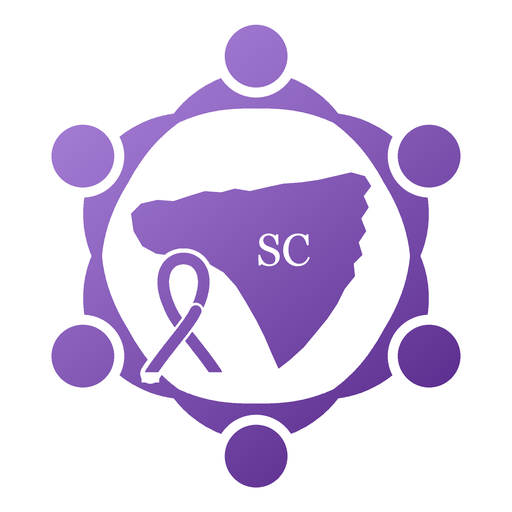
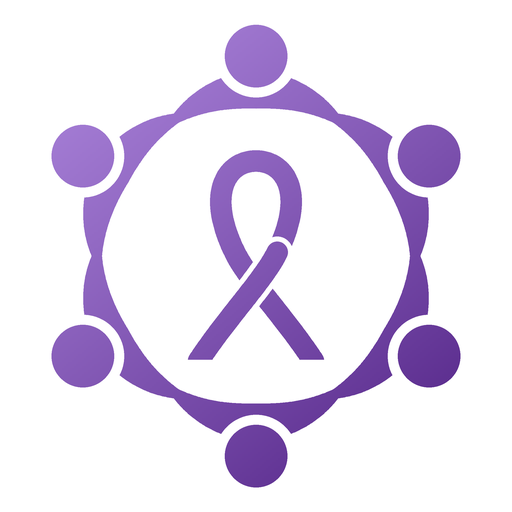
feat(fisio): ícone Uniafibro só com pessoas e laço (sem mapa/SC) [CC]

Changed region(s): [[0.25, 0.2812, 0.7188, 0.75]]

diff --git a/fisio-twa/scripts/icone-uniafibro.py b/fisio-twa/scripts/icone-uniafibro.py
@@ -1,5 +1,5 @@
 """Ícone do app Uniafibro, redesenhado a partir do logo da associação:
-roda de 6 pessoas de mãos dadas, mapa de SC com "SC" e o laço roxo da fibromialgia,
+roda de 6 pessoas de mãos dadas com o laço roxo da fibromialgia no centro,
 roxo em degradê (lilás em cima à esquerda, roxo escuro embaixo à direita) sobre branco.
 
 Uso: python -I icone-uniafibro.py <saida_dir>
@@ -9,15 +9,13 @@ import math
 import os
 import sys
 
-from PIL import Image, ImageChops, ImageDraw, ImageFont
+from PIL import Image, ImageDraw
 
 S = 2048
 C = S / 2
 K = 5.0  # escala: 1 unidade do logo original (640 px) = K px aqui
 LILAS = (178, 140, 226)
 ROXO = (70, 22, 122)
-FONTES = ["C:/Windows/Fonts/georgia.ttf", "C:/Windows/Fonts/times.ttf",
-          "/usr/share/fonts/truetype/dejavu/DejaVuSerif.ttf"]
 
 
 def L(x, y):
@@ -88,33 +86,6 @@ def roda():
     return m
 
 
-# ---------- mapa de Santa Catarina (silhueta simplificada) ----------
-SC = [  # contorno aproximado: oeste à esquerda, litoral à direita, sul embaixo
-    (220, 176), (228, 168), (241, 165), (254, 166), (266, 162), (279, 158), (292, 159),
-    (303, 156), (315, 158), (328, 155), (342, 152), (356, 151), (370, 149), (383, 146),
-    (396, 143), (407, 146), (412, 154), (406, 162), (410, 171), (404, 180), (408, 190),
-    (402, 199), (405, 209), (398, 216), (399, 226), (391, 236), (385, 248), (377, 260),
-    (368, 271), (358, 283), (347, 293), (338, 300), (333, 289), (327, 275), (320, 261),
-    (312, 247), (304, 234), (294, 223), (282, 216), (268, 212), (254, 210), (240, 208),
-    (229, 202), (222, 190)]
-
-
-def mapa():
-    m = mascara()
-    ImageDraw.Draw(m).polygon([L(x, y) for x, y in SC], fill=255)
-    # "SC" vazado em branco
-    fonte = None
-    for f in FONTES:
-        if os.path.exists(f):
-            fonte = ImageFont.truetype(f, int(36 * K))
-            break
-    if fonte is None:
-        fonte = ImageFont.load_default()
-    txt = Image.new("L", (S, S), 0)
-    ImageDraw.Draw(txt).text(L(342, 205), "SC", font=fonte, fill=255, anchor="mm")
-    return ImageChops.subtract(m, txt)
-
-
 # ---------- laço ----------
 def bezier(p0, p1, p2, p3, n=160):
     out = []
@@ -133,29 +104,26 @@ def traco(d, pts, w, cor):
 
 
 def laco(m):
-    """laço embaixo à esquerda do mapa, com contorno branco separando do mapa."""
+    """laço da fibromialgia no centro da roda."""
     d = ImageDraw.Draw(m)
-    cx, cy, s = 262, 258, 0.115
+    cx, cy, s = 320, 214, 0.2
     P = lambda x, y: L(cx + x * s, cy + y * s)
-    w = 9 * K
+    w = 17 * K
     s1 = bezier(P(-230, 400), P(-115, 225), P(35, 70), P(85, -35))
     s2 = bezier(P(85, -35), P(205, -280), P(110, -400), P(0, -400))
     s3 = bezier(P(0, -400), P(-110, -400), P(-205, -280), P(-85, -35))
     s4 = bezier(P(-85, -35), P(-35, 70), P(115, 225), P(230, 400))
-    borda = w + 7 * K
-    for seg in (s1, s2, s3, s4):
-        traco(d, seg, borda, 0)
     for seg in (s2, s3, s4):
         traco(d, seg, w, 255)
-    traco(d, s1[40:], w + 4 * K, 0)
+    traco(d, s1[40:], w + 8 * K, 0)
     traco(d, s1, w, 255)
     # pontas retas
     for x, y in (P(-230, 400), P(230, 400)):
-        d.rectangle([x - 7 * K, y - 1 * K, x + 7 * K, y + 7 * K], fill=0)
+        d.rectangle([x - 12 * K, y - 1 * K, x + 12 * K, y + 12 * K], fill=0)
 
 
 def marca():
-    m = ImageChops.lighter(roda(), mapa())
+    m = roda()
     laco(m)
     return m
 
